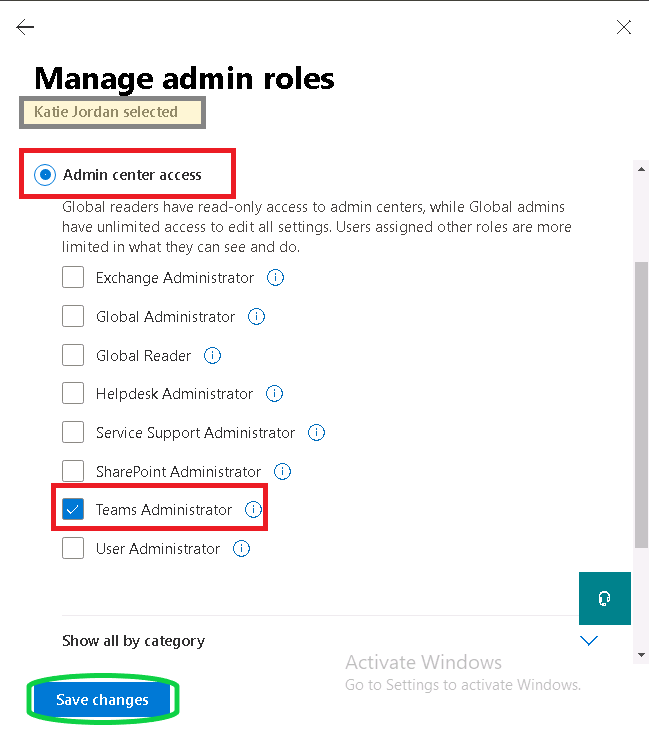
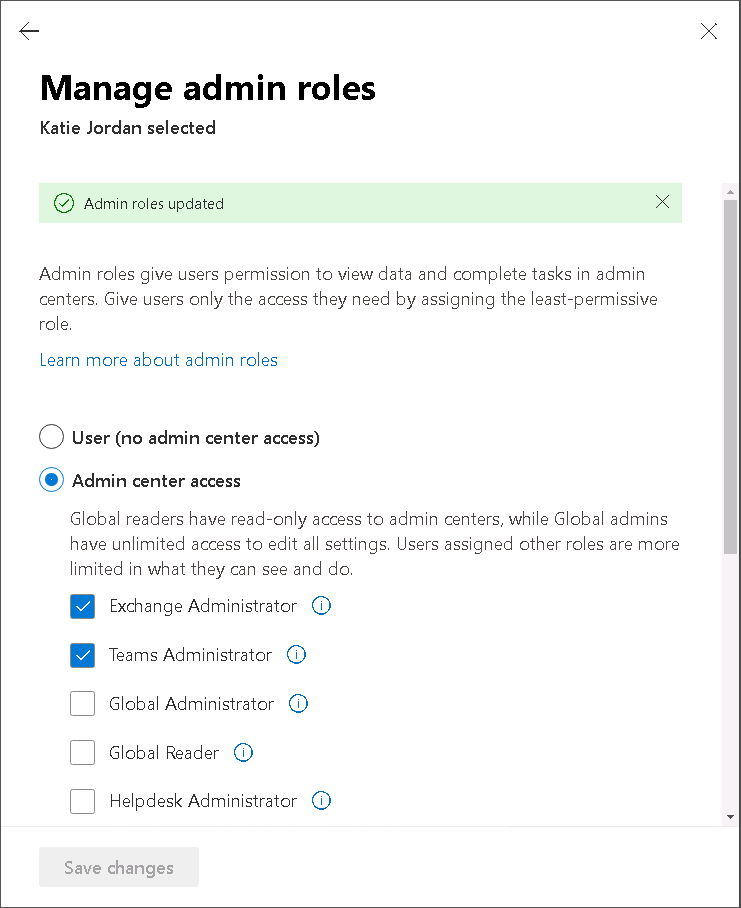
Dec 2022 updates

diff --git a/Instructions/Labs/LAB_AK_02_configure_environment_teams_voice.md b/Instructions/Labs/LAB_AK_02_configure_environment_teams_voice.md
@@ -98,7 +98,7 @@ In this task you will setup your network and sites in Teams Network Planner. Con
 
 6. You will be prompted “You haven't added any network sites yet.” Select **Add a network site**.
 
-7. Enter the **name** as **Tacoma** **Site**.
+7. Enter the **name** as **Tacoma Site**.
 
 8. Enter the description as **Tacoma Office**.
 
@@ -106,7 +106,7 @@ In this task you will setup your network and sites in Teams Network Planner. Con
 
 10. Enter the **network users** as **50**, as we have 50 users in the Tacoma office.
 
-11. Network subnets are just for reference in the report, our Tacoma offices network subnet is **10.10.1.0** with a network range of **24**. Enter these values.
+11. Network subnets are just for reference in the report, our Tacoma offices network subnet is **10.10.10.0** with a network range of **24**. Enter these values.
 
 12. Tacoma has local internet breakout, enter **50** for **Internet link capacity**.
 
@@ -156,7 +156,7 @@ In the following task you will run the Network Planner report and review the res
 
 For each site we must now define the number of users of each profile type. 
 
-6. For **Tacoma Site**, in the **Office worker** row, set Network users to **30**.
+6. For **Tacoma Site**, in the **Office Worker** row, set Network users to **30**.
 
 7. Remove the **Remote Worker** row by selecting the **X** at the end of the row.
 
@@ -164,7 +164,7 @@ For each site we must now define the number of users of each profile type.
 
 9. In the **Audio Only User** row, set Network Users to **20**.
 
-10. For **Bellevue Site**, in the **Office worker** row, set Network users to **80**.
+10. For **Bellevue Site**, in the **Office Worker** row, set Network users to **80**.
 
 11. Remove the **Remote Worker** row by selecting the **X** at the end of the row.
 
@@ -196,7 +196,7 @@ In this task you will sign into a client machine provided by your training provi
 
 3. Select **download** to download the installer.
 
-4. Go to **Start**, enter **Run** and select **Run**, and enter **Shell:Downloads** in the open dialog and select **OK**, this will open the downloads folder.
+4. Go to **Start**, enter **Run** and select **Run**, and enter **Shell:Downloads** in the open dialog and select **OK**, this will open the **Downloads** folder.
 
 5. Find **MicrosoftTeamsNetworkAssessmentTool.exe**, right select it and run as administrator.
 
@@ -234,9 +234,9 @@ The Teams Network Assessment Tool is run from the command line. We will now run 
 
 6. Enter **NetworkAssessmentTool.exe** and press enter to run that program.
 
-7. You will get a **Windows Defender Firewall Prompt;** Ensure Public networks is ticked and select **allow access**.
+7. You will get a **Windows Defender Firewall Prompt;** Ensure Public networks is checked and select **Allow Access**.
 
-8. The test will complete, and you will see Service connectivity result has been written to: and a file path, and be put back at the command prompt.
+8. The test will complete, and you will see *"Service connectivity result has been written to:"* and a file path, and be put back at the command prompt.
 
 You have started the Network Assessment Tool for the first time.
 
@@ -268,7 +268,7 @@ The network quality check (performance test) is run with the NetworkAssessmentTo
 
 5. The test will run for 300 seconds with tests every 5 seconds, we will finish the test early. After 10 or more tests have been completed, press **Ctrl+C** to stop the test.
 
-6. When the test is complete, you will see the output **Call Quality Check Has Finished Call Quality Check result has been written to: C:\Users\LabUser\AppData\Local\Microsoft Teams Network Assessment Tool\\<Number\>quality_check_results.csv**
+6. When the test is complete, you will see the output *"Call Quality Check Has Finished Call Quality Check result has been written to:"* and a file path, and be put back at the command prompt.
 
 ### Task 5 - Interpret Results of the Network Quality Check
 
@@ -408,7 +408,7 @@ In this task you will create an emergency location. This is needed before you ca
 
 5. Select the **Country or region** menu and then select **United States**.
 
-6. Switch **Input address manually** from Off to **On**.
+6. Switch **Input address manually** to **On**.
 
 7. In the **Street Number** box, enter **700**.
 
@@ -534,15 +534,15 @@ Since we want all users to be able to do 5xx extension dialing, we will add a ne
 
 7. Ensure **Basic** rule is selected, it should be by default.
 
-8. Tick **The number dialed begins with** and enter **5**.
+8. Check **The number dialed begins with** and enter **5**.
 
-9. Tick **The length of the number being dialed is** and enter **3**.
+9. Check **The length of the number being dialed is** and enter **3**.
 
 10. Ensure **Exactly** is selected for length of number to be dialed.
 
-11. Tick **Remove this many digits from the start of the number** and enter **1**.
+11. Check **Remove this many digits from the start of the number** and enter **1**.
 
-12. Tick **Add this number to the beginning** and enter **+442085665**.
+12. Check **Add this number to the beginning** and enter **+442085665**.
 
 13. Test the rule by entering **503** and selecting **Test**. The output should be +44208566503, if the output is correct select **Save**.
 
@@ -576,7 +576,7 @@ At Contoso, you need to enable the option of convenience recording 1:1 calls, wh
 
 9. While still in Voice and calling policies, select the **Group policy assignment** tab.
 
-10. Select **Add group** to open the **Assign policy to group** dialogue.
+10. Select **Add** to open the **Assign policy to group** dialogue.
 
 11. Under **Select a group** search for **Contoso All Company** and when **Contoso All Company** group appears select **Add**.
 
@@ -588,7 +588,7 @@ At Contoso, you need to enable the option of convenience recording 1:1 calls, wh
 
 15. Leave the browser open in the Microsoft Teams admin center at the end of this task.
 
-The policy is now applied to all users in the default **All Company** group. If a user is directly assigned a policy (either individually or through a batch assignment), that policy takes precedence over a policy inherited by being a member of a group. This leaves the option for specific users to be directly assigned a different policy should they want busy on busy disabled.
+The policy is now applied to all users in the **Contoso All Company** group. If a user is directly assigned a policy (either individually or through a batch assignment), that policy takes precedence over a policy inherited by being a member of a group. This leaves the option for specific users to be directly assigned a different policy should they want busy on busy disabled.
 
 You have successfully created and assigned a calling policy.
 
@@ -610,7 +610,7 @@ Call Park is disabled by default. Our organization would like the option to use 
 
 6. Leave the browser open in the **Microsoft Teams admin center** at the end of this task.
 
-The call pickup range is from 10 to 99 and cannot be customized. You have successfully enabled call park for all users.
+The call pickup range is from 10 to 99 but can be customized here. You have successfully enabled call park for all users.
 
 ### Task 4 - Configure Caller ID policies
 
@@ -628,7 +628,7 @@ By default, the user's phone number is displayed when an outbound call is made t
 
 5. For **friendly description** enter **Block outbound caller ID**.
 
-6. Switch **Override the caller ID policy** from Off to **On**.
+6. Switch **Override the caller ID policy** to **On**.
 
 7. For **Replace the caller ID with** select **Anonymous**.
 
@@ -688,15 +688,15 @@ In this task you will order a phone number in the Teams Admin Center to assign t
 
 3. Under **Numbers**, select **Add**.
 
-4. At the top of the page, enter a name for your order **Bellevue numbers for users**.
+4. At the top of the page, enter a name for your order **New numbers for Bellevue site users**.
 
-5. For friendly description enter **Bellevue user numbers order**.
+5. For friendly description enter **New numbers for users at the Bellevue Office**.
 
 6. Select **United States** as **Country or region**.
 
 7. For Number Type, select **User (subscriber)**.
 						
-8. For Operator, select Microsoft.						
+8. For Operator, select **Microsoft**.
 
 9. The Quantity field will now appear, enter 1.
 
@@ -720,7 +720,7 @@ You have successfully ordered a phone number through the Teams admin center.
 
 Before a user can make calls, they need a phone number. In this task you will assign the phone number you ordered earlier to Isaiah Langer.
 
-1. You are still signed in to MS720-CLIENT01 as “Admin” and have the **Microsoft Teams** **admin center** open as **Katie Jordan**.
+1. You are still signed in to MS720-CLIENT01 as “Admin” and have the **Microsoft Teams admin center** open as **Katie Jordan**.
 
 2. Select **Voice** and the **Phone numbers** tab.
 

diff --git a/Instructions/Labs/LAB_AK_01_prepare_lab_environment.md b/Instructions/Labs/LAB_AK_01_prepare_lab_environment.md
@@ -203,7 +203,7 @@ In the following task you will use the global administrator account MOD Administ
 
 1. In the **Manage admin roles** pane, select **Admin center access**.
 
-1. In the list, select **Teams Administrator**.
+1. In the list, select **Exchange Administrator** and **Teams Administrator**.
 
 1. At the bottom of the card, select **Save changes**. Admin roles are updated.
 
@@ -213,7 +213,7 @@ In the following task you will use the global administrator account MOD Administ
 
 1. Deselect **Automatically create a password** and **Require this user to change their password when they first sign in**.
 
-1. Enter a password that meets the complexity requirements and you will remember for later in the lab, e.g. the password of “Admin” from MS720-CLIENT01.
+1. Enter a password that meets the complexity requirements and you will remember for later in the lab, e.g. the password of your Microsoft 365 tenant administrator.
 
 1. Press **Reset password**.
 
@@ -281,7 +281,7 @@ As an admin, you can enable users to make phone calls with a Domestic Calling Pl
 
 1. Under **View by category**, select **Add-ons**.
 
-1. In the **Add-ons** list, locate and then select **Microsoft 365 Domestic Calling Plan for US and Canada Trial**, note you may need to expand the list to see all the add-ons and be sure to select the trial version.
+1. In the **Add-ons** list, locate and then select **Microsoft Teams Domestic Calling Plan for US and Canada Trial**, note you may need to expand the list to see all the add-ons and be sure to select the trial version.
 
 1. Select **Details** and select **Start free trial**. 
 
@@ -307,7 +307,7 @@ As an admin, you can assign the calling plan license that gives users the right 
 
 1. Deselect **Automatically create a password** and **Require this user to change their password when they first sign in**.
 
-1. Enter a password that meets the complexity requirements and you will remember for later in the lab, e.g. the password of “Admin” from MS720-CLIENT01.
+1. Enter a password that meets the complexity requirements and you will remember for later in the lab, e.g. the password of your Microsoft 365 tenant administrator.
 
 1. Press **Reset password**.
 
@@ -365,7 +365,7 @@ In this task you will install the latest Teams PowerShell module on your lab cli
     Get-Module -Name MicrosoftTeams
     ```
 
-1. You should see a version number of 2.5.1 or above and a multi value field with different cmdlets available.
+1. You should see a version number of 4.9.1 or above and a multi value field with different cmdlets available.
 
     ![Screenshot of the installing and importing the Microsoft Teams PowerShell module.](./Linked_Image_Files/M01_L01_E04_T01.png)
 

diff --git a/Instructions/Labs/LAB_AK_03_expand_environment_direct_routing.md b/Instructions/Labs/LAB_AK_03_expand_environment_direct_routing.md
@@ -10,7 +10,7 @@ lab:
 
 ## Lab scenario
 
-As part of the expanding business the organization has an existing SIP trunk into their primary data center. The contractual obligations mean that it’s more cost effective to utilise the SIP trunk and move to Microsoft Calling Plans later. As part of the move Megan will be moved from the old telephone system to the new Microsoft Phone System solution. 
+As part of the expanding business the organization has an existing SIP trunk into their primary data center. The contractual obligations mean that it’s more cost effective to utilize the SIP trunk and move to Microsoft Calling Plans later. As part of the move Megan will be moved from the old telephone system to the new Microsoft Phone System solution.
 
 ## Lab Setup
 
